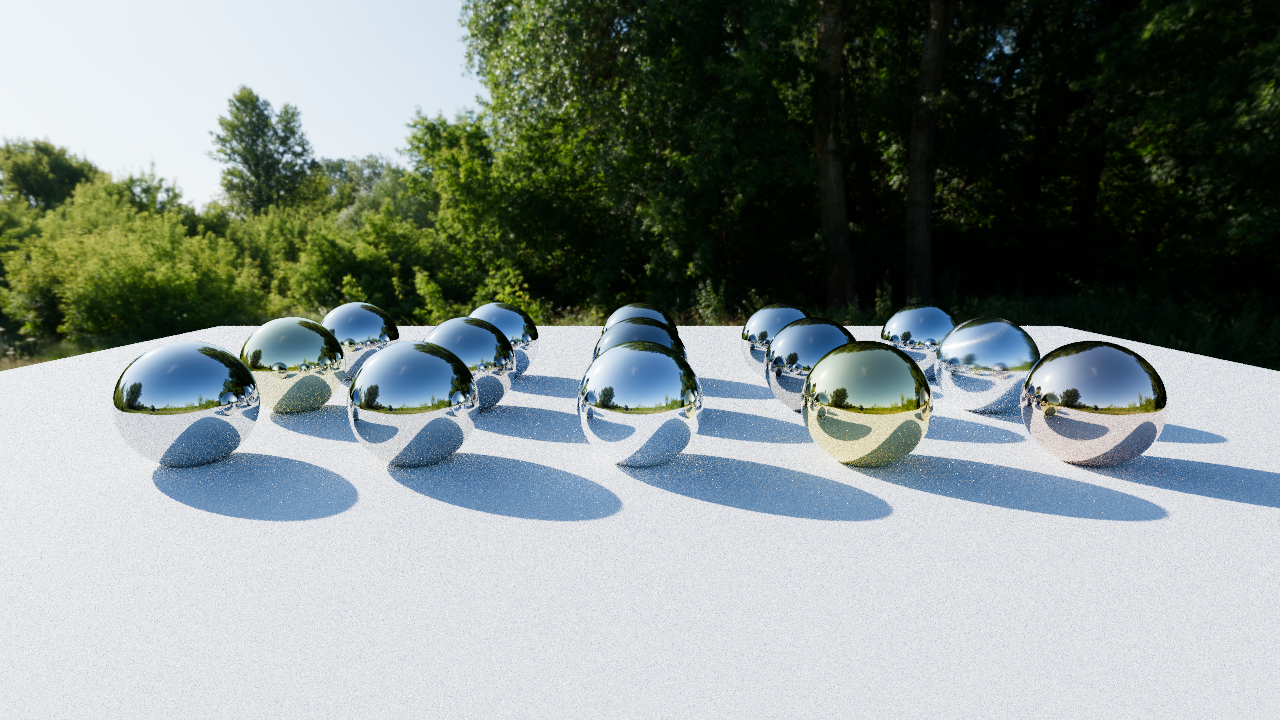
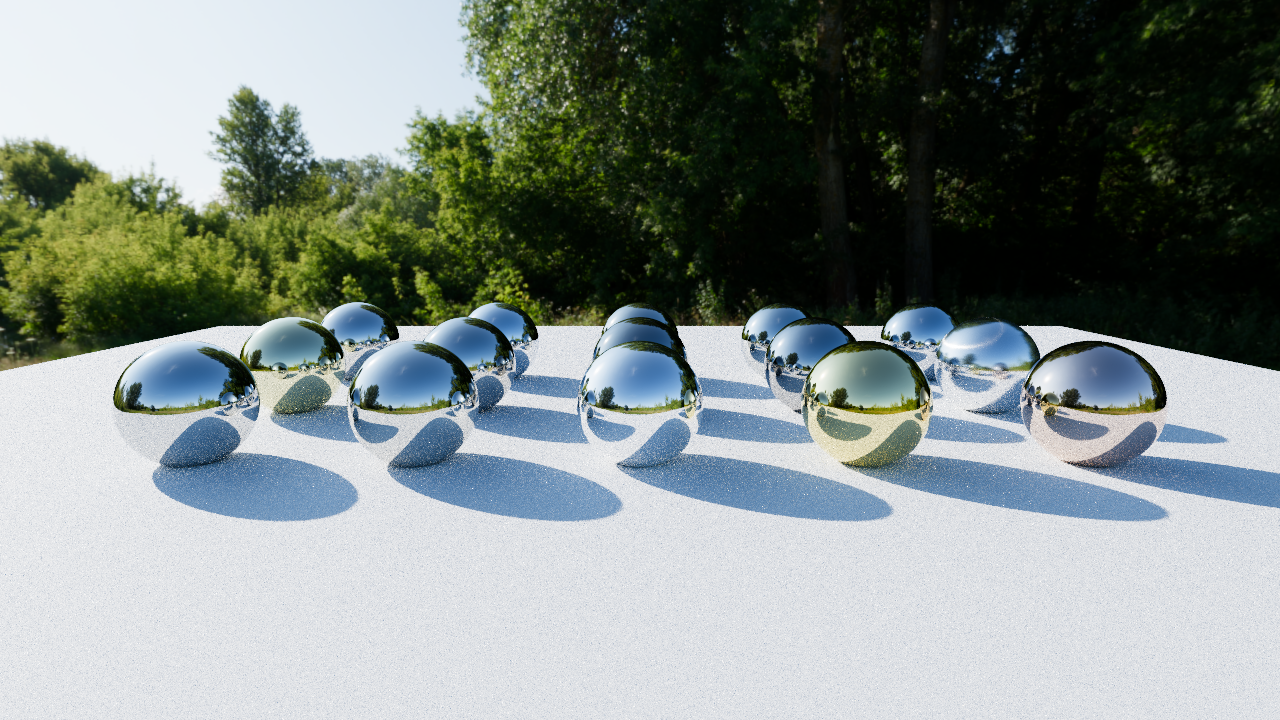
docs(screenshots): openpbr_specular and openpbr_metals with the texture-coordinate tangent
Harmonia's shared surface shader builds the frame of an anisotropy from the
tangent of the texture coordinates now (Harmonia b8f3c17), where it built it
from the normal alone. The two gallery scenes with anisotropic materials are
rendered again with the settings of tools/generate_gallery.ps1, and PLAN.md
says so among the unreleased changes.
Against the previous files, 8.5 percent of the pixels of openpbr_specular and 6.1
percent of openpbr_metals changed by more than 8 of 255; the lower half of each
image, where the spheres and the floor are.

diff --git a/PLAN.md b/PLAN.md
@@ -94,7 +94,7 @@ before v0.6.19 are recorded only in the git history.
 
 | Version | Date | Content |
 |---------|------|---------|
-| Unreleased | — | Motion blur in sequence captures through Harmonia's `--shutter` and `--time-samples`: the accumulation is kept across the time samples of an output frame. Distance haze of a scene with a `[haze]` section: the ray-generation shader composites each sample through the shared `haze.slang` and the ray payload carries the distance to the primary surface. At 1024 samples per pixel on `haze`, the transmittance read back from five cubes matches the formula within 0.006. The lens glare of Harmonia (`--glare`) is in the PNG of a capture and leaves the EXR untouched, which is exact in Hyperion because a capture repeats exactly |
+| Unreleased | — | Motion blur in sequence captures through Harmonia's `--shutter` and `--time-samples`: the accumulation is kept across the time samples of an output frame. Distance haze of a scene with a `[haze]` section: the ray-generation shader composites each sample through the shared `haze.slang` and the ray payload carries the distance to the primary surface. At 1024 samples per pixel on `haze`, the transmittance read back from five cubes matches the formula within 0.006. The lens glare of Harmonia (`--glare`) is in the PNG of a capture and leaves the EXR untouched, which is exact in Hyperion because a capture repeats exactly. An anisotropic material without a tangent map stretches its highlight along the texture coordinates (Harmonia's shared `surface.slang`); the gallery screenshots of `openpbr_specular` and `openpbr_metals` are rendered with the new frame |
 | v1.0.0 | 2026-11-26 | Stable baseline, released with Harmonia v1.0.0 and Aether v1.0.0. Aether declared as an external include boundary in the architecture contract; static-analysis findings in the manifold-sampling and BSDF tests removed; documentation-reference check in strict mode |
 | v0.12.0 | 2026-11-24 | Camera assembled by Harmonia's shared `CameraAssembly`; the rendered image is unchanged |
 | v0.11.0 | 2026-11-23 | Documentation aligned with the code; static-analysis repairs |
